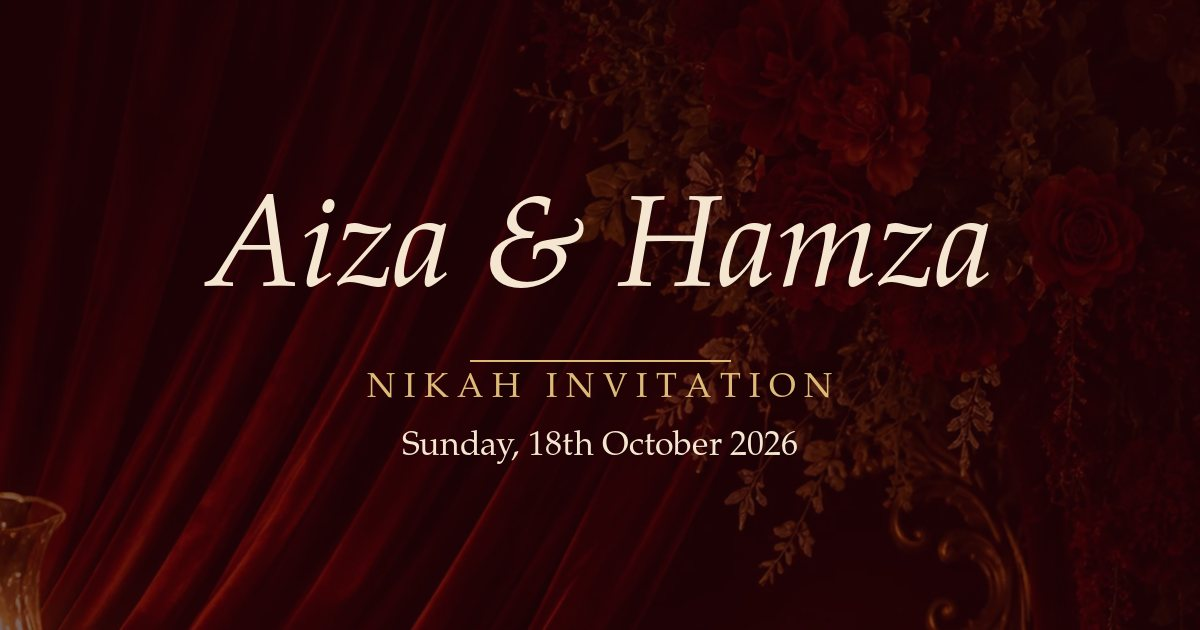
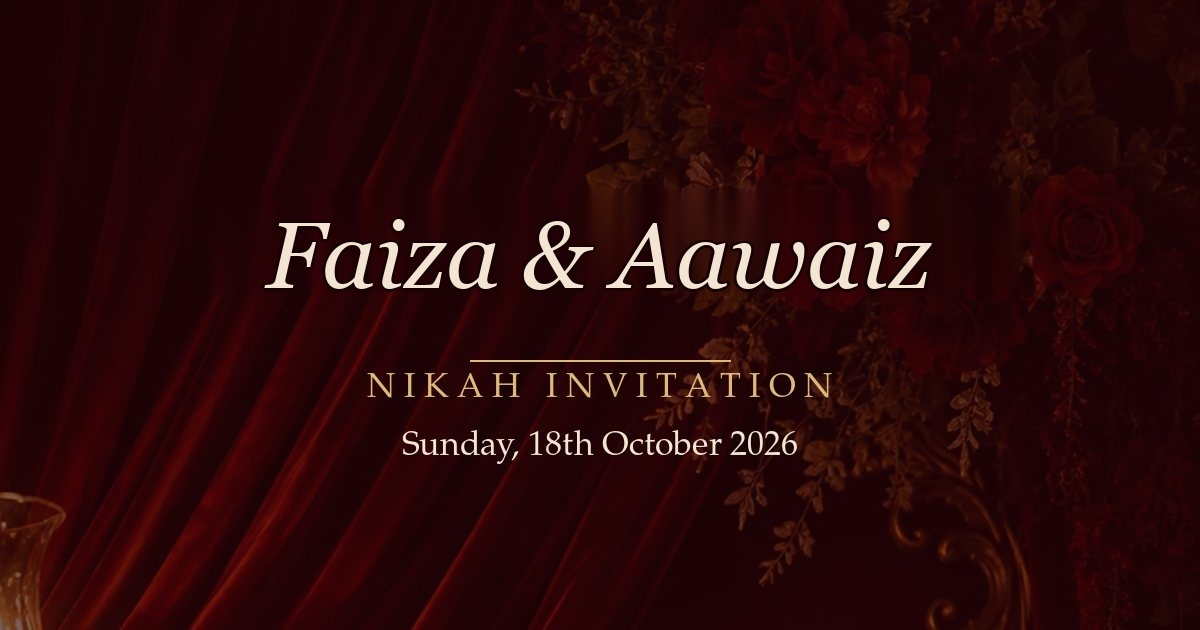
Update og-image to Faiza & Aawaiz with cache buster

Changed region(s): [[0.1542, 0.3016, 0.8325, 0.4825]]

diff --git a/index.html b/index.html
@@ -13,12 +13,12 @@
     <meta property="og:title" content="Faiza &amp; Aawaiz | Nikah Invitation" />
     <meta property="og:description" content="Join us to celebrate the Nikah of Faiza &amp; Aawaiz — Sunday, 18th October 2026." />
     <meta property="og:url" content="https://faiza-aawaiz.vercel.app/" />
-    <meta property="og:image" content="https://faiza-aawaiz.vercel.app/og-image.jpg" />
+    <meta property="og:image" content="https://faiza-aawaiz.vercel.app/og-image.jpg?v=2" />
     <meta property="og:image:width" content="1200" />
     <meta property="og:image:height" content="630" />
     <meta name="twitter:card" content="summary_large_image" />
     <meta name="twitter:title" content="Faiza &amp; Aawaiz | Nikah Invitation" />
-    <meta name="twitter:image" content="https://faiza-aawaiz.vercel.app/og-image.jpg" />
+    <meta name="twitter:image" content="https://faiza-aawaiz.vercel.app/og-image.jpg?v=2" />
 
     <link rel="icon" href="./favicon.svg" type="image/svg+xml" />
     <link rel="preconnect" href="https://fonts.googleapis.com" />
